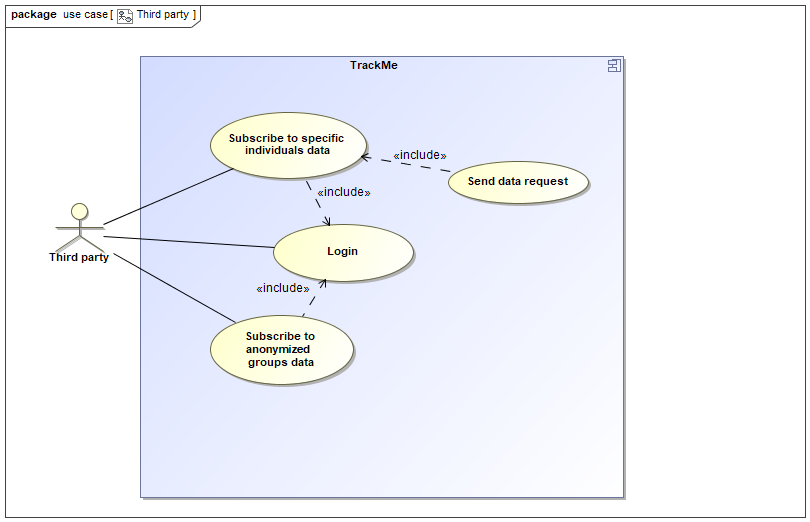
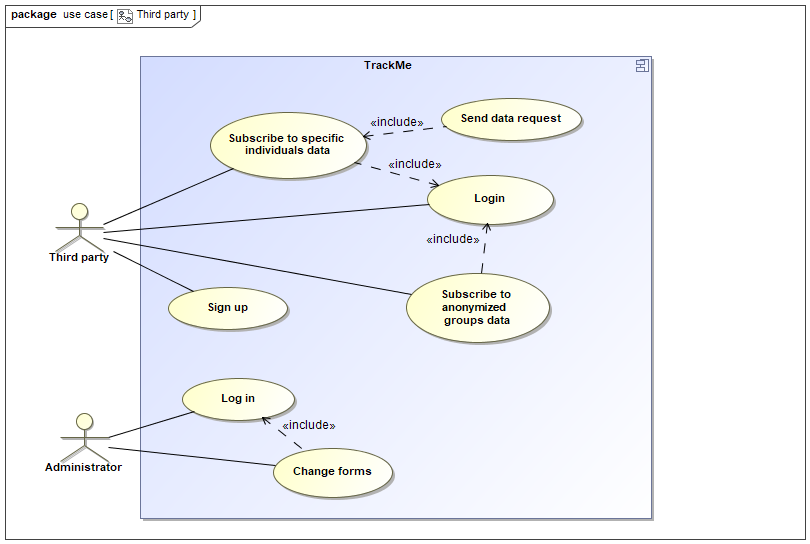
diagram updated, sections 1, 2 updated

diff --git a/RASD/sections/overall_description.tex b/RASD/sections/overall_description.tex
@@ -35,16 +35,31 @@ Data4Help is in fact thought to give a service to third parties: companies, rese
 
 In order to obtain data of specific individuals, in which the survey's object can be considered identifiable, a third party can search through a search dialog or filters an individual or a group of fewer than 1000 persons. Then, Data4Help creates a request for use of data that the interested users will receive as a notification. Only after receiving their consent Data4Help will allow the third party to receive those data, updated from time to time.
 
-If the third party wants to lead an anonymized survey instead, the application doesn't need the users' consent and it gives automatically data of groups of users of more than 1000 persons.\newline
+If the third party wants to lead an anonymized survey instead, the application doesn't need the users' consent and it gives automatically data of groups of users of more than 1000 persons.
+
 Regarding AutomatedSOS, once a situation of emergency is ascertained, the application is capable, thanks to the data collected and the agreement with emergency services in Europe and USA, of providing an immediate and accurate help service. 
 
 \subsubsection{Run management} 
 Here "management" is intended to indicate the management of a running race led by a user, who is allowed by the application to organize it and update its status. In fact, the user is able to organize a new race through a form and an external map service.
 
-The organizer can optionally indicate in the form other organizers, who will help in the race management, once the initial phase of race profiling is completed. After the event is created, every organizer has the possibility to postpone the race before its begin and to cancel it before its end. Other two actions can be performed by the organizers: sign a runner as "present" at the race and as "disqualified" with respect to its rules. Those two actions can be very useful to be performed by several persons, especially during races of certain dimensions. Furthermore, those flags will be fundamental for the race monitoring of other users.\newline
-During the form compilation, the user has to specify if the race will be open or by invitation, in order to create respectively the public announcement or the link to a registration form.
+The organizer can optionally indicate in the form other organizers, who will help in the race management, once the initial phase of race profiling is completed. After the event is created, every organizer has the possibility to postpone the race before its begin and to cancel it before its end. Other two actions can be performed by the organizers: sign a runner as "present" at the race and as "disqualified" with respect to its rules. Those two actions can be very useful to be performed by several persons, especially during races of certain dimensions. Furthermore, those flags will be fundamental for the race monitoring of other users.
 
+During the form compilation, the user has to specify if the race will be open or by invitation, in order to create respectively the public announcement or the link to a registration form.
+ 
+\subsubsection{Data monitoring and consequent actions on them}
+
+The generic user, daily opening the application finds immediately his/her data recorded through the wearable device and notifications (such as the request of data sharing from a company). Naturally, the user can answer the notification as far as required. In another section that can be found through the menù, the user can monitor races to whom he/she subscribed or which are organized by him/her, and next to it he/she finds a list of races in neatness and time order. There the user can subscribe to a race or watch it in real-time.
+
+The display of the race takes place through maps provided by external services and on the shown path there are markers associated with runners signed as "present". On the screen, there's also a leaderboard with the runners' names associated with the markers through a number. It is visible if a runner is disqualified (the marker is blocked where he/she was disqualified and the name is grey).
+ 
 \subsection{User characteristics}
+The system has the following actors:
+\begin{itemize}
+\item Generic user: a person who has a user account through which he/she monitors his/her data and can subscribe to services for emergency automated calls and for joining running races, as well as organizing them;
+\item Third party: a company or association registered agent who can ask for groups' or individuals' data;
+\item Administrator: A TrackMe employee who can make some changes in the forms other actors have to compile.
+\end{itemize}
+
 \subsection{Assumptions, dependencies and constraints}
 [D1] - Third parties own an alphanumerical code received from a TrackMe administrator used to verify their identities and match them with the company account. \newline
 

diff --git a/RASD/sections/introduction.tex b/RASD/sections/introduction.tex
@@ -41,8 +41,12 @@ Finally, TrackMe offers an additional service to take advantage of the data coll
 \subsubsection{Definitions}
 \begin{itemize}
 \item \textbf{Common user:} 
-\item \textbf{Data:}
+\item \textbf{Third party:}
+\item \textbf{Data:Temporary and permanent}
 \item \textbf{Survey:}
+\item \textbf{Private run:}
+\item \textbf{Public run:}
+\item \textbf{Identifiable individual:}
 \item %TODO complete this section
 \end{itemize}
 \subsubsection{Acronyms}
